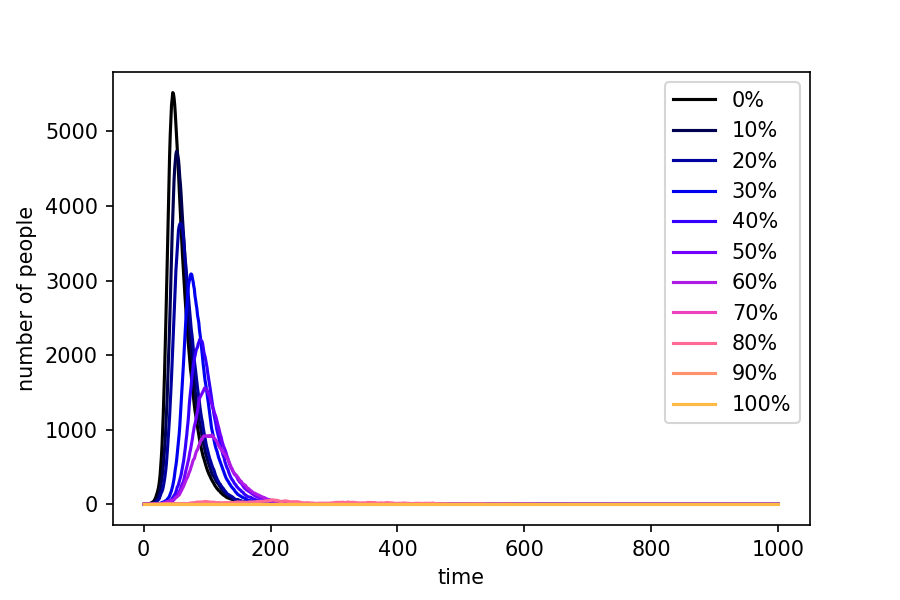
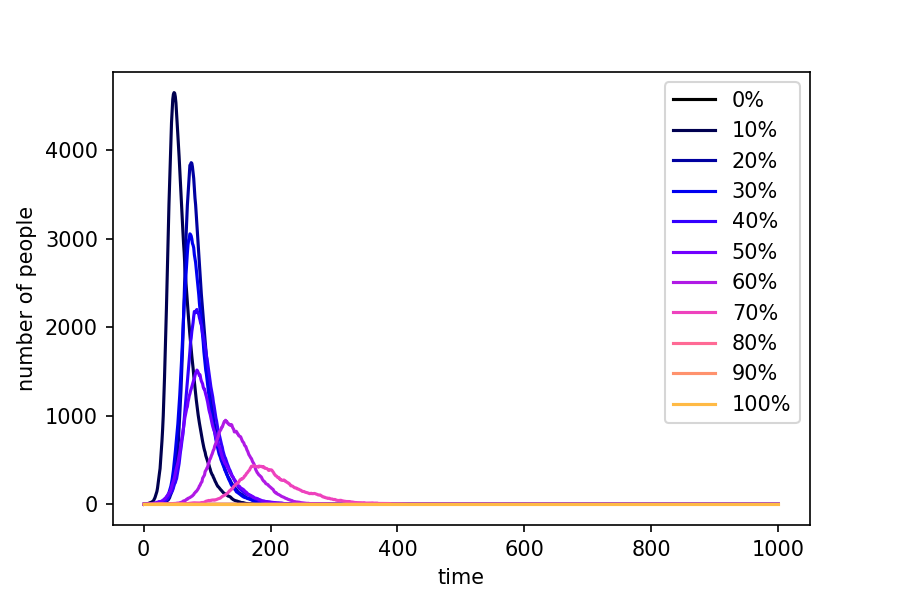
Reflection added

diff --git a/Practical12/SIR_vaccination.py b/Practical12/SIR_vaccination.py
@@ -22,19 +22,15 @@ for i in range(0,110,10):
     vc =int(N*i/100)
     if N==vc:
         sp=[0]
-        ift=[0]
+        ift=[0] #if all people are vaccinated
     else:
         sp=[N-vc-1]
         ift=[1]
     rcv=[0]
     for t in range(1,1000):
-        for item in np.random.choice(range(2),sp[t-1],p=[1-beta*ift[t-1]/N, beta*ift[t-1]/N]): #yield infected people
-            if item==1:
-              count1 += 1
+        count1 = np.random.choice(range(2),sp[t-1],p=[1-beta*ift[t-1]/N, beta*ift[t-1]/N]).sum() #yield infected people
+        count2 = np.random.choice(range(2),ift[t-1],p=[1-gamma, gamma]).sum() #yield recovered people
         sp.append(sp[t-1]-count1)
-        for item in np.random.choice(range(2),ift[t-1],p=[1-gamma, gamma]): #yield recovered people
-            if item==1:
-                count2 += 1
         rcv.append(rcv[t-1]+count2)
         ift.append(ift[t-1]+count1-count2)
         count1, count2 = 0, 0 #reset
@@ -43,7 +39,7 @@ for i in range(0,110,10):
 plt.figure(figsize=(6,4),dpi=150)
 x = [y for y in range(1,1001)]
 for u in range(0,11):
-    plt.plot(x,list_inf[u],label=str(u*10)+'%',color=cm.gnuplot2(u*20))
+    plt.plot(x,list_inf[u],label=str(u*10)+'%',color=cm.gnuplot2(u*20)) #plot graphs in one figure with loops
 plt.xlabel('time')
 plt.ylabel('number of people')
 plt.legend()
